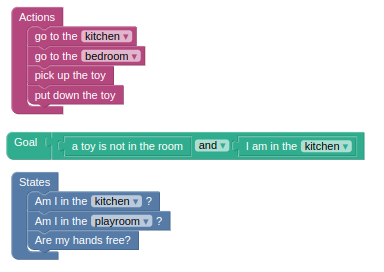
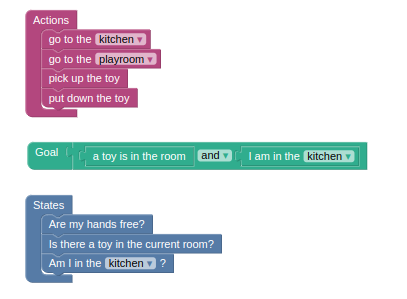
update to tutorial text

Changed region(s): [[0.0312, 0.6176, 0.5625, 0.9706], [0.0312, 0.0, 0.4062, 0.4412], [0.0, 0.4706, 0.9688, 0.5882]]

diff --git a/task_tutorials_1.html b/task_tutorials_1.html
@@ -231,7 +231,7 @@
     ];
 
     var tutorial_texts_RL = ["The robot is designed to act based on a <b>goal</b> specified to it. In addition to the goal, the robot requires the user to specify all the possible <b>states</b> it can be in such as \"I am holding a toy.\", \"I am in the kitchen.\" etc. It also requires knowing all the possible states to achieve its goal. Finally,  the robot must be informed of the set of <b>actions</b> it needs to use to complete the task. Once these are provided to it, the robot tries to find an optimal behavior towards accomplishing the task.",
-      "Now, let's attempt to move the robot to the kitchen. To achieve this, <ol><li>First, we need to specify is the goal. To do that click on the \"Goal\" tab and drag \"I am in the kitchen\" piece and attach it to the \"Goal\" piece in the programming interface.</li> <li>Next, we need to specify the action. Click on the \"Actions\" tab and drag the \"Go to kitchen\" piece and attach it to \"Actions\" on the programming interface. </li> <li>Finally, we need to tell the robot all of the states it can be in while trying to get to the kitchen. </li> <li>Click on the \"States\" tab and drag the \"Am I in the kitchen?\" piece and attach it to \"States\" on the programming interface.</li> </ol>", "If your program looks like the image on the right,<br> then press the \"Run Program\" button to see your program running.", "Now let's work on a second task. In this task you will program the robot to move the toy from the playroom to the kitchen.", "To do this, <ol> <li>First remove the \"Am I in the kitchen?\" piece added to the \"Goal\" block by dragging it to the trash found on the bottom right corner</li><li>To successfully perform the task, the robot needs to have a set of actions: going to the kitchen, going to the playroom, picking up the toy, and putting down the toy. Therefore, drag the \"Go to kitchen\" from the actions tab and attach it to the actions block. Add the \"Go to playroom\", \"pick up the toy\", and \"put down the toy\" to the actions block below the previous piece</li>, <li>Next, let's specify the states the robot could be in while trying to complete the task. These states are being in the kitchen, being in the playroom, and holding the toy. Drag the pieces that represent each state and attach them to the states block.</li> <li>Finally, we specify the goal. The robot can only know it has achieved the goal by sensing the environment. For the current task, the goal can be stated as the robot seeing the toy in the kitchen. To specify this, drag the \"and\" piece from the Goal tab and attach it to the Goal piece. Then drag \"Am I in the kitchen?\" piece from the Goal tab and attach it to one of the empty spaces in the \"and\" piece. Then, drag \"a toy is in the room\" piece and attach it to the remaining space of the \"and\" piece </li>", "If your progarm looks like the image on the right, <br> then press the \"Run Program\" button to see your program running."
+      "Now, let's attempt to move the robot to the kitchen. To achieve this, <ol><li>First, we need to specify is the goal. To do that click on the \"Goal\" tab and drag \"I am in the kitchen\" piece and attach it to the \"Goal\" piece in the programming interface.</li> <li>Next, we need to specify the action. Click on the \"Actions\" tab and drag the \"Go to kitchen\" piece and attach it to \"Actions\" on the programming interface. </li> <li>Finally, we need to tell the robot all of the states it can be in while trying to get to the kitchen. </li> <li>Click on the \"States\" tab and drag the \"Am I in the kitchen?\" piece and attach it to \"States\" on the programming interface.</li> </ol>", "If your program looks like the image on the right,<br> then press the \"Run Program\" button to see your program running.", "Now let's work on a second task. In this task you will program the robot to move the toy from the playroom to the kitchen.", "To do this, <ol> <li>First remove the \"Am I in the kitchen?\" piece added to the \"Goal\" block by dragging it to the trash found on the bottom right corner</li><li>To successfully perform the task, the robot needs to have a set of actions: going to the kitchen, going to the playroom, picking up the toy, and putting down the toy. Therefore, drag the \"Go to kitchen\" from the actions tab and attach it to the actions block. Add the \"Go to playroom\", \"pick up the toy\", and \"put down the toy\" to the actions block below the previous piece</li>, <li>Next, let's specify the states the robot could be in while trying to complete the task. These states are being in the kitchen, seeing a toy in a room, and holding the toy. Drag the pieces that represent each state (\"Am I in the kitchen?\", \"Are my hands free?\", and \"Is there a toy in the current room\") from the States tab and attach them to the states block.</li> <li>Finally, we specify the goal. The robot can only know it has achieved the goal by sensing the environment. For the current task, the goal can be stated as the robot seeing the toy in the kitchen. To specify this, drag the \"and\" piece from the Goal tab and attach it to the Goal piece. Then drag \"Am I in the kitchen?\" piece from the Goal tab and attach it to one of the empty spaces in the \"and\" piece. Then, drag \"a toy is in the room\" piece and attach it to the remaining space of the \"and\" piece </li>", "If your progarm looks like the image on the right, <br> then press the \"Run Program\" button to see your program running."
     ];
 
     var tutorial_texts_MDP = ["The robot is designed to act based on a <b>goal</b> specified to it. Once the goal is provided to it, the robot tries to find an optimal behavior towards accomplishing the task.",
